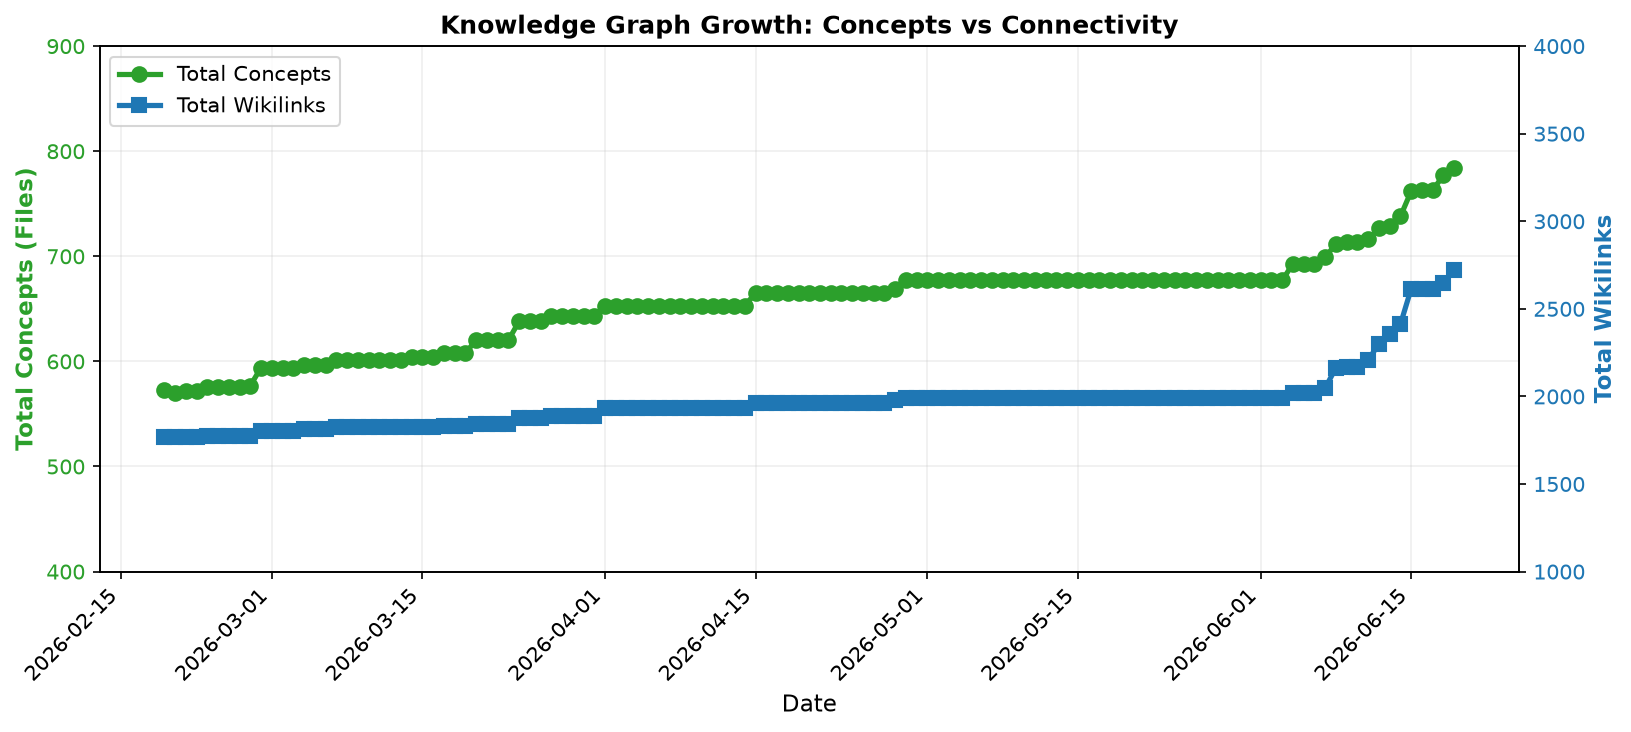
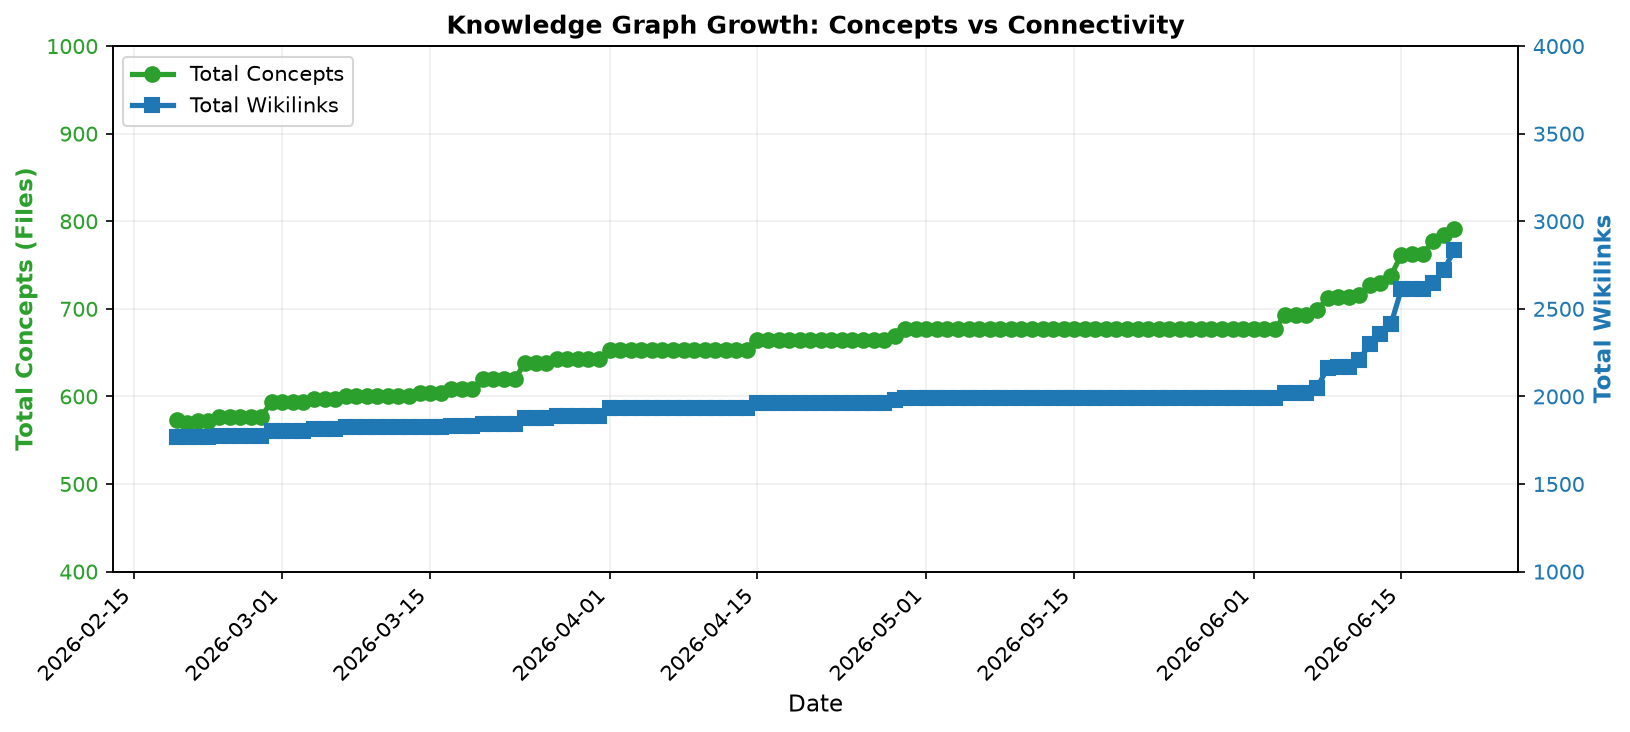
Update knowledge graph stats [skip ci]

diff --git a/README.md b/README.md
@@ -4,7 +4,7 @@
 
 ![Knowledge Glossary Growth](stats/chart.png)
 
-A personal knowledge graph containing **784 interconnected concepts** in data science, machine learning, and AI. Built as an [Obsidian](https://obsidian.md/) vault with typed relationships, this graph can serve as the foundation for a **data ontology**.
+A personal knowledge graph containing **791 interconnected concepts** in data science, machine learning, and AI. Built as an [Obsidian](https://obsidian.md/) vault with typed relationships, this graph can serve as the foundation for a **data ontology**.
 
 ## Structure
 